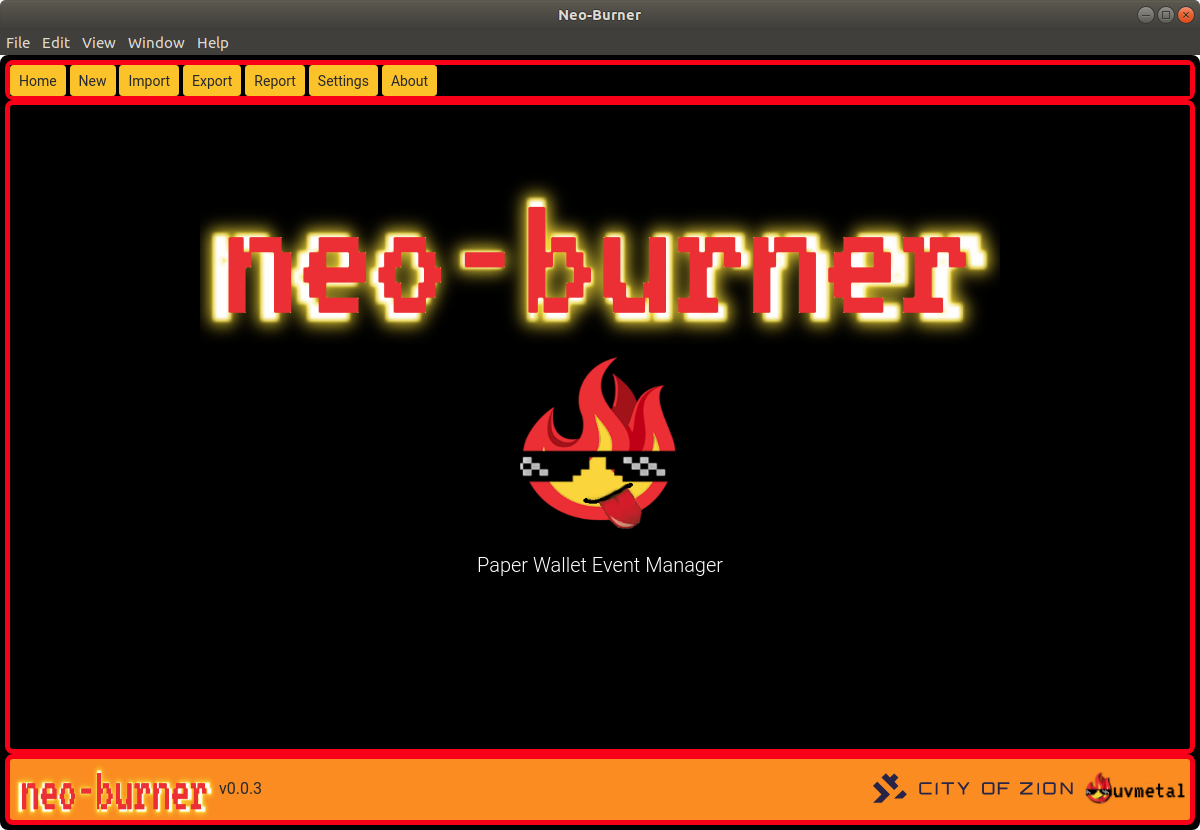
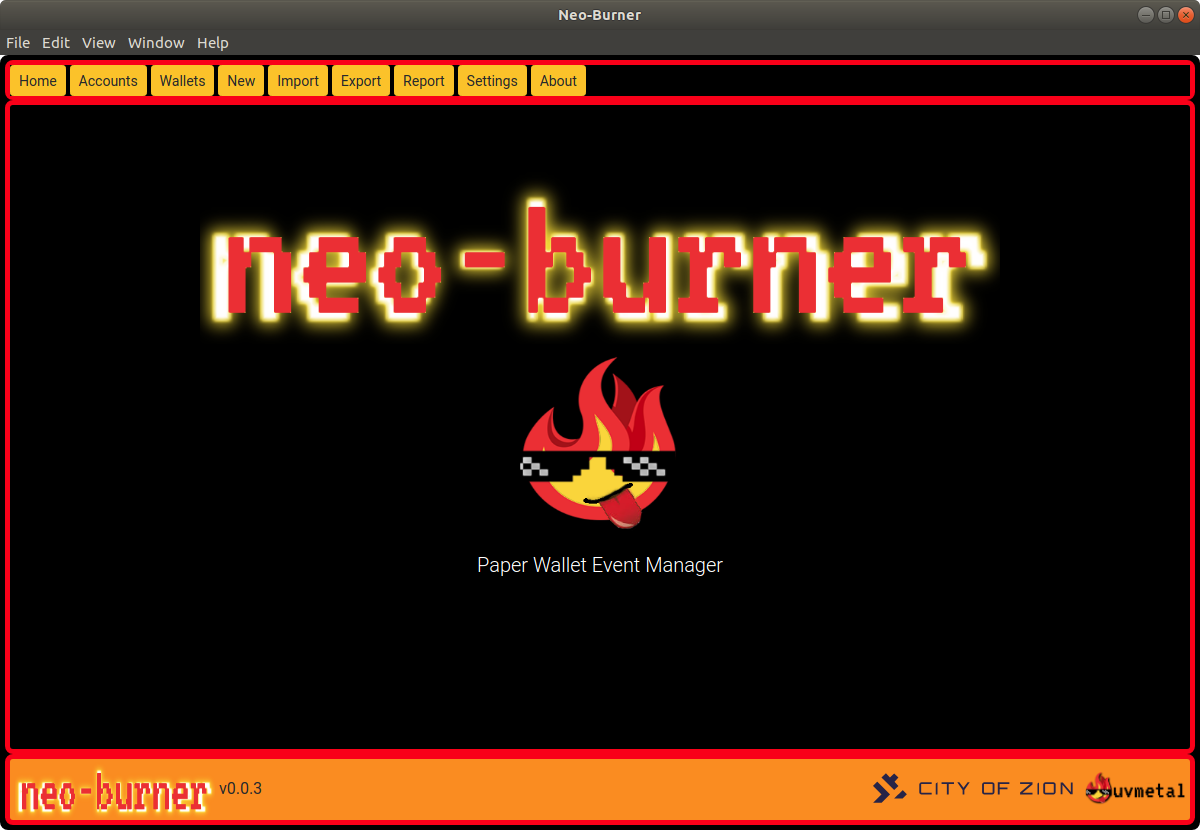
improved workflow and updated screenshot

Changed region(s): [[0.0617, 0.0602, 0.4933, 0.1205], [0.4008, 0.6627, 0.6167, 0.6928], [0.185, 0.9337, 0.2158, 0.9639]]

diff --git a/src/components/App/Home.js b/src/components/App/Home.js
@@ -1,5 +1,5 @@
 import React, { Component } from 'react'
-import { Jumbotron } from 'reactstrap'
+import { Jumbotron, Button } from 'reactstrap'
 
 import burnerLogo from '../../images/neo-burner-burning-logo-alt-3.png'
 import uvmetalFace from '../../images/uvmetal-tongue.png'
@@ -11,12 +11,18 @@ class Home extends Component {
   constructor(props) {
     super(props)
 
+    this.letsBurn = this.letsBurn.bind(this)
+
     this.state = {
 
     }
   }
 
   componentDidMount() {
+  }
+
+  letsBurn() {
+    this.props.history.push('/Accounts')
   }
 
   render() {
@@ -27,11 +33,9 @@ class Home extends Component {
             <img src={burnerLogo} width="800" height="175" alt="neo-burner" className=""  />
             <br/>
             <img src={uvmetalFace} width="205" height="205" alt="neo-burner" className=""  />
-
             <p className="lead">Paper Wallet Event Manager</p>
-            <hr className="my-4" />
             <p className="lead mx-auto">
-
+            <Button onClick={this.letsBurn} color="warning" >Let's Burn!</Button>
               <p/>
             </p>
           </div>

diff --git a/src/components/App/Accounts.js b/src/components/App/Accounts.js
@@ -55,7 +55,7 @@ class Accounts extends Component {
                    onChange={e => this.setState({ amount: e.target.value })}
                  />
                </FormGroup>
-               <Button onClick={e => this.onFormSubmit(e)} color="primary">Generate</Button>
+               <Button onClick={e => this.onFormSubmit(e)} color="warning">Generate</Button>
              </Form>
              <br/>
              <textarea
@@ -95,8 +95,8 @@ class Accounts extends Component {
                 name="accounts"
                 value={util.inspect(this.props.accounts, {depth:null})}/>
                 <br/>
-                <Button onClick={this.props.clearAccounts} color="primary">Clear</Button>{' '}
-                <Button onClick={this.createWallet} color="primary">Create Wallet</Button>
+                <Button onClick={this.props.clearAccounts} color="warning" >Clear</Button>{' '}
+                <Button onClick={this.createWallet} color="warning" >Create Wallet</Button>
              </Container>
             </p>
           </div>

diff --git a/src/components/Ui/Main/Main.js b/src/components/Ui/Main/Main.js
@@ -222,7 +222,7 @@ class AppMain extends Component {
         break
 
         default:
-          rightPaneContent = <Home />
+          rightPaneContent = <Home {...this.props}/>
       }
     }
 
